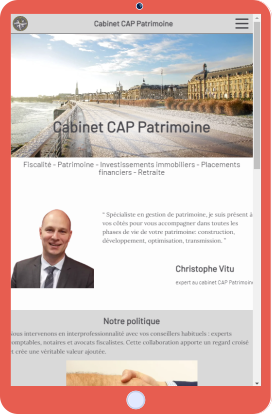
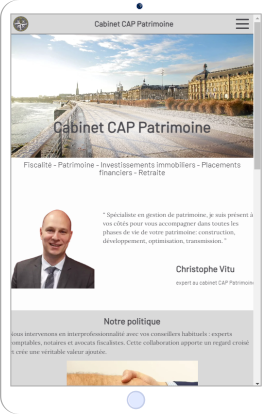
:lipstick: Home ui done

diff --git a/components/homePage/about/About.jsx b/components/homePage/about/About.jsx
@@ -57,6 +57,18 @@ export default function About(props) {
         },
     }
 
+    const videoPlayerVariants = {
+        initial: {
+            opacity: 0,
+        },
+        animate: {
+            opacity: 1,
+            transition: {
+                delay: .5,
+            },
+        },
+    }
+
     return (
         <section className={`home-section ${styles.about}`} ref={targetRef}>
             <Wave positionPlace="top" />
@@ -72,13 +84,18 @@ export default function About(props) {
                         viewport={{ once: true }}
                         transition={{
                             duration: 1,
-                            delay: 0.75,
+                            delay: 0.5,
                         }}
                     >
                         votre contact
                     </motion.h2>
 
-                    <div className={styles.videoPlayerContainer}>
+                    <motion.div
+                        className={styles.videoPlayerContainer}
+                        variants={videoPlayerVariants}
+                        initial="initial"
+                        whileInView="animate"
+                    >
                         {startTitle && (
                             <motion.div
                                 className={styles.videoTitle}
@@ -99,7 +116,7 @@ export default function About(props) {
                                 className={styles.videoPlayer}
                             />
                         )}
-                    </div>
+                    </motion.div>
                 </div>
                 <div className={styles.content}>
                     {/* {textData && textData.map((data, id) => 

diff --git a/components/homePage/testimonials/Testimonials.module.scss b/components/homePage/testimonials/Testimonials.module.scss
@@ -1,5 +1,9 @@
 @import '../../../styles/scss/utils/mixins';
 
+.testimonials {
+    overflow: hidden;
+}
+
 .article {
     width: 95%;
     @include maxWidth;
@@ -23,12 +27,14 @@
 .testimonial {
     flex: 1 1 0;
     position: relative;
+    margin-bottom: .5rem;
 }
 
 .content {
     position: relative;
     background: #fff;
     padding: 1rem;
+    border-radius: 5px;
     @include boxShadow;
     &::after,
     &::before {
@@ -65,8 +71,28 @@
     position: absolute;
     right: 0;
     width: auto;
-    @include links;
-    &:hover{
+    color: unset;
+    &::after {
+        content: '';
         position: absolute;
+        bottom: -1px;
+        left: 0;
+        width: 100%;
+        height: 1px;
+        background: var(--primary);
+        transform: scaleX(0);
+        transition: transform 0.15s linear;
+        transform-origin: left;
     }
+    &:hover {
+        position: absolute;
+        &::after {
+            transform: scaleX(1);
+        }
+    }
+}
+
+.icon {
+    margin-left: 1rem;
+    font-size: 0.75em;
 }

diff --git a/components/homePage/testimonials/Testimonials.module.css b/components/homePage/testimonials/Testimonials.module.css
@@ -1,4 +1,8 @@
 @charset "UTF-8";
+.testimonials {
+  overflow: hidden;
+}
+
 .article {
   width: 95%;
   max-width: 1400px;
@@ -25,12 +29,14 @@
 .testimonial {
   flex: 1 1 0;
   position: relative;
+  margin-bottom: 0.5rem;
 }
 
 .content {
   position: relative;
   background: #fff;
   padding: 1rem;
+  border-radius: 5px;
   box-shadow: 0px 2px 2px 0 var(--grey);
 }
 .content::after, .content::before {
@@ -88,20 +94,24 @@
 }
 .link::after {
   content: "";
-  z-index: -1;
   position: absolute;
-  bottom: 0;
+  bottom: -1px;
   left: 0;
-  height: 1px;
   width: 100%;
+  height: 1px;
   background: var(--primary);
-  transition: transform 0.25s linear;
-  transform-origin: right;
-}
-.link:hover::after {
   transform: scaleX(0);
-  animation: unset;
+  transition: transform 0.15s linear;
+  transform-origin: left;
 }
 .link:hover {
   position: absolute;
+}
+.link:hover::after {
+  transform: scaleX(1);
+}
+
+.icon {
+  margin-left: 1rem;
+  font-size: 0.75em;
 }

diff --git a/components/homePage/testimonials/Testimonials.jsx b/components/homePage/testimonials/Testimonials.jsx
@@ -108,11 +108,11 @@ export default function Testimonials() {
                                 rel="noopener noreferrer"
                                 target="_blank"
                             >
-                                Voir le site{' '}
-                                <FontAwesomeIcon
-                                    icon={faUpRightFromSquare}
-                                    className={styles.icon}
-                                />
+                                Voir le site
+                                    <FontAwesomeIcon
+                                        icon={faUpRightFromSquare}
+                                        className={styles.icon}
+                                    />
                             </Link>
                         </article>
                     ))}

diff --git a/components/homePage/about/About.module.scss b/components/homePage/about/About.module.scss
@@ -26,7 +26,7 @@
 
 .title {
     font-size: 5rem;
-    color: var(--grey);
+    color: #fff;
     width: 100%;
     text-align: center;
 }
@@ -37,8 +37,19 @@
     aspect-ratio: 20 / 11;
     border-radius: 10px;
     // overflow: hidden;
-    border: 0.5rem solid var(--grey);
-    background: var(--grey);
+    // border: 0.5rem solid var(--grey);
+    // background: var(--grey);
+    &::after{
+        content:"";
+        position: absolute;
+        height: 105%;
+        width: 105%;
+        top: 50%;
+        left: 50%;
+        transform: translate(-50%, -50%);
+        background-image: url('/assets/home/emptyTablet.png');
+        background-size: contain;
+    }
 }
 
 .videoTitle {

diff --git a/components/homePage/about/About.module.css b/components/homePage/about/About.module.css
@@ -25,7 +25,7 @@
 
 .title {
   font-size: 5rem;
-  color: var(--grey);
+  color: #fff;
   width: 100%;
   text-align: center;
 }
@@ -35,8 +35,17 @@
   width: 90%;
   aspect-ratio: 20/11;
   border-radius: 10px;
-  border: 0.5rem solid var(--grey);
-  background: var(--grey);
+}
+.videoPlayerContainer::after {
+  content: "";
+  position: absolute;
+  height: 105%;
+  width: 105%;
+  top: 50%;
+  left: 50%;
+  transform: translate(-50%, -50%);
+  background-image: url("/assets/home/emptyTablet.png");
+  background-size: contain;
 }
 
 .videoTitle {

diff --git a/pages/projects/index.jsx b/pages/projects/index.jsx
@@ -107,8 +107,8 @@ export default function Projects() {
                     >
                         <Image
                             src={project.result.path}
-                            height={295}
-                            width={530}
+                            height={414}
+                            width={272}
                             className={styles.illus}
                             alt={project.result.name}
                         />

diff --git a/styles/scss/pages/home/_home.scss b/styles/scss/pages/home/_home.scss
@@ -8,10 +8,8 @@
 }
 
 .home-section {
-    --bgColor: var(--bg);
     width: 100%;
     position: relative;
-    @include sectionBg(var(--bgColor));
 }
 
 .home-article {
@@ -23,7 +21,6 @@
 .home-section-title {
     font-size: 3rem;
     font-family: var(--fontfam2);
-    // text-transform: capitalize;
 }
 
 

diff --git a/pages/projects/Projects.module.css b/pages/projects/Projects.module.css
@@ -62,9 +62,7 @@
   position: absolute;
   display: flex;
   flex-direction: column;
-  box-shadow: 0px 2px 2px 0 var(--grey);
   padding: 1rem;
-  border-radius: 10px;
   transition: transform 0.25s linear;
   cursor: pointer;
   transform-origin: bottom right;

diff --git a/pages/projects/Projects.module.scss b/pages/projects/Projects.module.scss
@@ -46,9 +46,7 @@
 .projectContainer {
     position: absolute;
     @include flexCol;
-    @include boxShadow;
     padding: 1rem;
-    border-radius: 10px;
     transition: transform 0.25s linear;
     cursor: pointer;
     transform-origin: bottom right;

diff --git a/styles/globals.css b/styles/globals.css
@@ -70,12 +70,8 @@ table {
 }
 
 .home-section {
-  --bgColor: var(--bg);
   width: 100%;
   position: relative;
-  background-color: var(--bgColor);
-  background-image: url("/assets/grainy.webp");
-  background-attachment: fixed;
 }
 
 .home-article {

diff --git a/components/homePage/hero/Hero.module.scss b/components/homePage/hero/Hero.module.scss
@@ -3,6 +3,7 @@
 .section {
     position: sticky;
     top: 4rem;
+    overflow: hidden;
 }
 
 .article {
